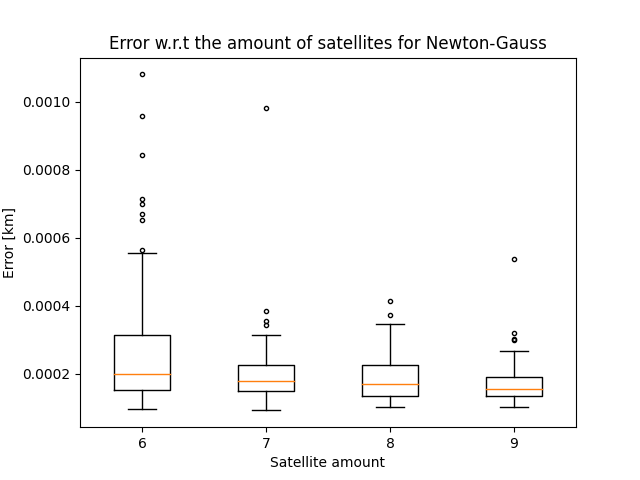
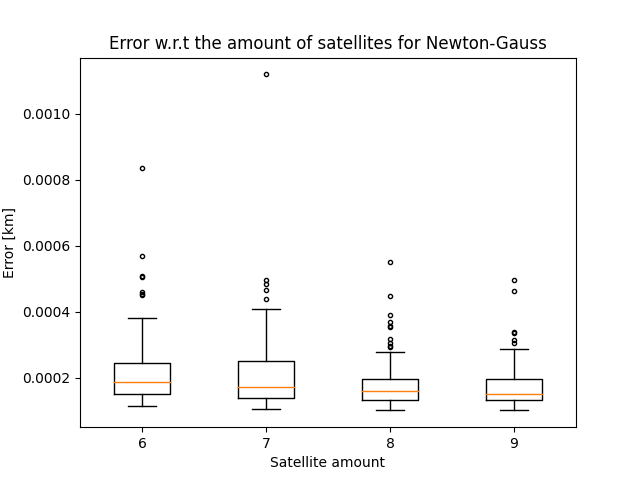
Evil optimization

diff --git a/problem_8_daniel.py b/problem_8_daniel.py
@@ -4,23 +4,19 @@ import matplotlib.pyplot as plt
 import random
 from sympy.utilities.iterables import multiset_permutations
 
-
 # Constants
-rho = 26570 # kilometers
-c = 299792.458 # speed of light [km/s]
-X = 0
-Y = 0
-Z = 6370
-err = 1e-8
+RHO = 26570                 # distance of satellites from earth[km]
+LIGHT_SPEED = 299792.458    # speed of light [km/s]
+X_0 = np.array([0,0,6370,0])          # Initial x, y, z, and d (time from sat to recv) values
 
 def random_angles(pos: int, rows: int):
     '''Generates {pos} random positions for {rows} amount of satellites each'''
     rand_phis = []
     rand_thetas = []
-    for i in range(0, pos):
+    for _ in range(0, pos):
         rand_phi = []
         rand_theta = []
-        for j in range(0, rows):
+        for _ in range(0, rows):
             rand_phi.append(random.uniform(0.0, pi/2))
             rand_theta.append(random.uniform(0.0, 2*pi))
         rand_thetas.append(rand_theta)
@@ -28,13 +24,13 @@ def random_angles(pos: int, rows: int):
     return rand_thetas, rand_phis
 
 def location(phi: float, theta: float):
-    A = rho * sin(phi) * cos(theta) if abs(rho * sin(phi) * cos(theta)) > 1e-10 else 0
-    B = rho * sin(phi) * sin(theta) if abs(rho * sin(phi) * sin(theta)) > 1e-10 else 0
-    C = rho * cos(phi) if abs(rho * cos(phi)) > 1e-10 else 0
-    distance = sqrt(pow((X - A), 2) + pow((Y - B), 2) + pow((Z - C), 2))
-    t = distance / c
+    A = RHO * sin(phi) * cos(theta) if abs(RHO * sin(phi) * cos(theta)) > 1e-10 else 0
+    B = RHO * sin(phi) * sin(theta) if abs(RHO * sin(phi) * sin(theta)) > 1e-10 else 0
+    C = RHO * cos(phi) if abs(RHO * cos(phi)) > 1e-10 else 0
+    distance = sqrt(pow((X_0[0] - A), 2) + pow((X_0[1] - B), 2) + pow((X_0[2] - C), 2))
+    t = distance / LIGHT_SPEED
 
-    ret_dict = {'A':A, 'B':B, 'C':C, 'distance':distance, 't':t}
+    ret_dict = {'A': A, 'B': B, 'C': C, 'distance': distance, 't': t}
     return ret_dict
 
 def get_incorr_phis(err: int, a_list: list):
@@ -54,7 +50,7 @@ def get_incorr_phis(err: int, a_list: list):
 
     return all_perms
 
-def getABCt(corr_theta: list, corr_phi: list, incorr_phi: list):
+def getabct(corr_theta: list, corr_phi: list, incorr_phi: list):
     A, B, C, t = [], [], [], []
     for i in range(len(corr_phi)):
         t.append(location(corr_phi[i], corr_theta[i])['t']) #Vector of time for each sat t[s] derived from correct values
@@ -64,69 +60,57 @@ def getABCt(corr_theta: list, corr_phi: list, incorr_phi: list):
         C.append(values['C']) #Vector of distances in plane C[km]
     return A, B, C, t
 
-def F(x: list, A: list, B: list, C: list, t: list, rows: int):
+def f(x: list, A: list, B: list, C: list, t: list, rows: int):
     '''Takes in a 5x1 vector as input for initial value. Creates a list and appends each equation 
     with relevant variable data and returns'''
     funcs = []
     for i in range(rows):
-        funcs.append(pow((x[0]-A[i]), 2) + pow((x[1]-B[i]),2) + pow((x[2]-C[i]),2) - pow(c,2) * pow((t[i]-x[3]), 2))
+        funcs.append(pow((x[0]-A[i]), 2) + pow((x[1]-B[i]),2) + pow((x[2]-C[i]),2) - pow(LIGHT_SPEED,2) * pow((t[i]-x[3]), 2))
     return funcs
 
-def DF(x: list, A: list, B: list, C: list, t: list, rows: int):
+def df(x: list, A: list, B: list, C: list, t: list, rows: int):
     '''Creates each row of jacobi matrix independently(Hard coded) takes in a 5x1 vector
     of initial conditions and creates a matrix which is returned'''
     eq_list = [0]*rows
     for i in range(0, len(eq_list)):
-        eq_list[i] = [(2*(x[0]-A[i])), (2*(x[1]-B[i])), (2*(x[2]-C[i])), (2*pow(c,2)* (t[i]-x[3]))]
+        eq_list[i] = [(2*(x[0]-A[i])), (2*(x[1]-B[i])), (2*(x[2]-C[i])), (2*pow(LIGHT_SPEED,2)* (t[i]-x[3]))]
     return np.array(eq_list)
 
-def newtonmult(x0,tol):
+def newton_mult(x0: list , tol: int, theta: list, phi: list, incorr_phi: list):
     '''x0 er vigur i R^n skilgreindur t.d. sem
     x0=np.array([1,2,3])
     gert ráð fyrir að F(x) og Jacobi fylki DF(x) séu skilgreind annars staðar'''
     x=x0
     oldx=x+2*tol
+    A, B, C, t = getabct(theta, phi, incorr_phi)
     while LA.norm(x-oldx, np.inf)>tol:
         oldx=x
-        s=-LA.solve(DF(x),F(x))
+        s=-LA.solve(df(x, A, B, C, t), f(x, A, B, C, t))
         x=x+s
     return(x)
 
-def newtonmult(x0: list , tol: int, theta: list, phi: list, incorr_phi: list):
-    '''x0 er vigur i R^n skilgreindur t.d. sem
-    x0=np.array([1,2,3])
-    gert ráð fyrir að F(x) og Jacobi fylki DF(x) séu skilgreind annars staðar'''
-    x=x0
-    oldx=x+2*tol
-    A, B, C, t = getABCt(theta, phi, incorr_phi)
-    while LA.norm(x-oldx, np.inf)>tol:
-        oldx=x
-        s=-LA.solve(DF(x, A, B, C, t), F(x, A, B, C, t))
-        x=x+s
-    return(x)
-
-def newton_gauss(x0: list, tol: int, theta: list, phi: list, incorr_phi: list, rows: int):
+def newton_gauss_mult(x0: list, tol: int, theta: list, phi: list, incorr_phi: list, rows: int):
     """Implements the Newton-Gauss method, n are the amount of equations (rows) and m the amount of variables (columns)"""
     x = x0
     oldx=x+2*tol
-    A, B, C, t = getABCt(theta, phi, incorr_phi)
+    A, B, C, t = getabct(theta, phi, incorr_phi)
     while LA.norm(x-oldx, np.inf)>tol:
         oldx = x
-        left_side = np.dot(np.transpose(DF(x, A, B, C, t, rows)), DF(x, A, B, C, t, rows))
-        right_side = np.dot((np.transpose(DF(x, A, B, C, t, rows))), F(x, A, B, C, t, rows))
+        left_side = np.dot(np.transpose(df(x, A, B, C, t, rows)), df(x, A, B, C, t, rows))
+        right_side = np.dot((np.transpose(df(x, A, B, C, t, rows))), f(x, A, B, C, t, rows))
         s = -LA.solve(left_side, right_side)
         x = x+s
     return(x)
 
-def distance_w_error(theta: list, phi: list, err: int, sat_amount: int):
+def distance_w_error(theta: list, phi: list, err: int, tol_err: int, sat_amount: int):
     '''Runs the program and gives stores the intitial guess
     And prints the solution in an acceptable way'''
-    x0 = np.array([0,0,6370,0]) #Initial guess for newtons method
+
     incorr_phis = get_incorr_phis(err, phi)
     all_lenghts = []
     for incorr_phi in incorr_phis:
-        x,y,z,d = newton_gauss(x0, err, theta, phi, incorr_phi, sat_amount)
-        all_lenghts.append(sqrt(pow(x - X, 2) + pow(y - Y, 2) + pow(z - Z, 2)))
+        x,y,z,_ = newton_gauss_mult(X_0, tol_err, theta, phi, incorr_phi, sat_amount)
+        all_lenghts.append(sqrt(pow(x - X_0[0], 2) + pow(y - X_0[1], 2) + pow(z - X_0[2], 2)))
     return all_lenghts
 
 def main():
@@ -134,15 +118,13 @@ def main():
     min_sat_amount = 5
     sat_amount = 9
     all_all_errors = []
-    max_errors = []
-    min_errors = []
-    mean_errors = []
+
     for sat_amount in range(min_sat_amount, sat_amount+1):
         all_errors = []
 
         rand_thetas, rand_phis = random_angles(sat_pos_amount, sat_amount)
         for i in range(len(rand_phis)):
-            max_error = max(distance_w_error(rand_thetas[i], rand_phis[i], err, sat_amount))
+            max_error = max(distance_w_error(rand_thetas[i], rand_phis[i], 1e-8, 1e-8, sat_amount))
             all_errors.append(max_error)
 
         max_error = max(all_errors)
@@ -164,10 +146,6 @@ def main():
 
         if sat_amount <= min_sat_amount:
             continue
-
-        max_errors.append(max_error)
-        min_errors.append(min_error)
-        mean_errors.append(mean_error)
         all_all_errors.append(all_errors)
 
     fig, ax = plt.subplots()
@@ -180,9 +158,9 @@ def main():
     fig.savefig(f'figures/all_sats.png')
 
     plt.clf()
-    plt.plot([i for i in range(6, sat_amount+1)], max_errors, label="max")
-    plt.plot([i for i in range(6, sat_amount+1)], min_errors, label="min")
-    plt.plot([i for i in range(6, sat_amount+1)], mean_errors, label="mean")
+    plt.plot([i for i in range(6, sat_amount+1)], [np.max(i) for i in all_all_errors], label="max")
+    plt.plot([i for i in range(6, sat_amount+1)], [np.min(i) for i in all_all_errors], label="min")
+    plt.plot([i for i in range(6, sat_amount+1)], [np.mean(i) for i in all_all_errors], label="mean")
     plt.xlabel("Satellite amount")
     plt.ylabel("Error [km]")
     plt.title("Different errors w.r.t. satellite amount with Newton-Gauss")

diff --git a/problem_6.py b/problem_6.py
@@ -37,7 +37,8 @@ def location(phi: float, theta: float):
     return ret_dict
 
 def get_incorr_phis(err: int, a_list: list):
-    """Takes in a error and the list of values to add the combinations of errors to"""
+    """Takes in a error and the list of values to add the combinations of errors to.
+    Used for testing how positional errors affect the accuracy of the satellites"""
     all_err_perm = []
     err_list = [err] * len(a_list)
     for i in range(0,len(err_list)+1):
@@ -53,14 +54,14 @@ def get_incorr_phis(err: int, a_list: list):
 
     return all_perms
 
-def getABCt(corr_theta: list, corr_phi: list, incorr_phi: list):
+def getacbt(corr_theta: list, corr_phi: list, incorr_phi: list):
     A, B, C, t = [], [], [], []
     for i in range(len(corr_phi)):
-        t.append(location(corr_phi[i], corr_theta[i])['t']) #Vector of time for each sat t[s] derived from correct values
-        values = location(incorr_phi[i], corr_theta[i]) #Derived from prerceived values
-        A.append(values['A']) #Vector of distances in plane A[km]
-        B.append(values['B']) #Vector of distances in plane B[km]
-        C.append(values['C']) #Vector of distances in plane C[km]
+        t.append(location(corr_phi[i], corr_theta[i])['t']) # Vector of time for each sat t[s] derived from correct values
+        values = location(incorr_phi[i], corr_theta[i])     # Derived from perceived values
+        A.append(values['A'])                               # Vector of distances in plane A[km]
+        B.append(values['B'])                               # Vector of distances in plane B[km]
+        C.append(values['C'])                               # Vector of distances in plane C[km]
     return A, B, C, t
 
 def F(x: list, A: list, B: list, C: list, t: list):
@@ -83,7 +84,7 @@ def newtonmult(x0: list , tol: int, theta: list, phi: list, incorr_phi: list):
     gert ráð fyrir að F(x) og Jacobi fylki DF(x) séu skilgreind annars staðar'''
     x=x0
     oldx=x+2*tol
-    A, B, C, t = getABCt(theta, phi, incorr_phi)
+    A, B, C, t = getabct(theta, phi, incorr_phi)
     while LA.norm(x-oldx, np.inf)>tol:
         oldx=x
         s=-LA.solve(DF(x, A, B, C, t), F(x, A, B, C, t))
